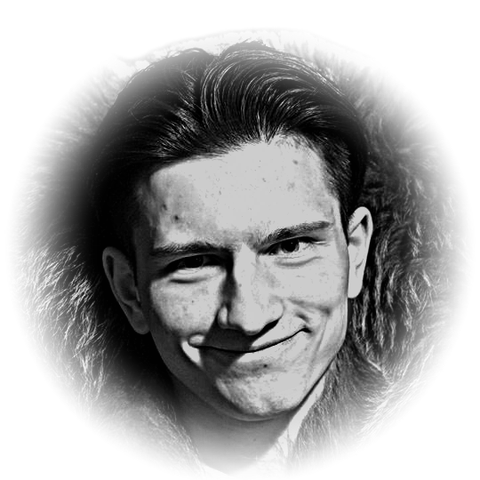
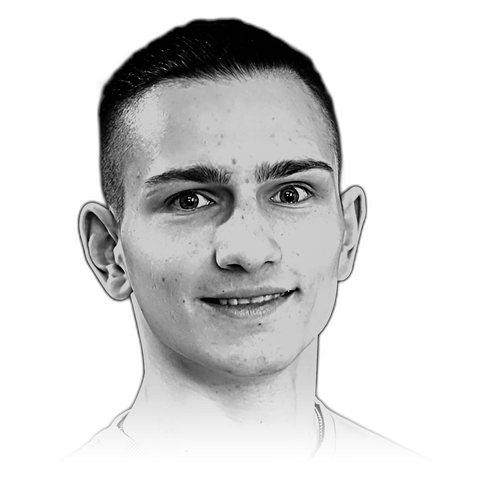
Новый портрет, иконка у срочной службы
Claude-Session: https://claude.ai/code/session_016JFU3MJHehXdZSEaKxqgBT

diff --git a/src/pages/Home.tsx b/src/pages/Home.tsx
@@ -6,6 +6,7 @@ import { sortedProjects } from "../projects";
 import { href } from "../router";
 import { sound } from "../sound";
 import { Logo } from "../ui/Logo";
+import { ShieldStar } from "@phosphor-icons/react";
 import { Dither } from "../ui/Dither";
 import { ProjectRow } from "../ui/ProjectRow";
 import { SectionLabel } from "../ui/Section";
@@ -141,7 +142,7 @@ export function Home() {
             <li key={e.years} className="flex items-start justify-between gap-4 border-b border-line py-3.5">
               <div className="flex gap-3">
                 <span className="mt-0.5 grid h-8 w-8 shrink-0 place-items-center rounded-[7px] border border-line bg-surface text-ink">
-                  {e.logo ? <Logo name={e.logo} className={e.logo === "pix" ? "h-3.5 w-5" : "h-5 w-3"} /> : <span className="h-1.5 w-1.5 rounded-full bg-ink-3" />}
+                  {e.logo ? <Logo name={e.logo} className={e.logo === "pix" ? "h-3.5 w-5" : "h-5 w-3"} /> : <ShieldStar size={16} weight="duotone" className="text-ink-2" />}
                 </span>
                 <div>
                   {e.site ? (

diff --git a/src/ui/Dither.tsx b/src/ui/Dither.tsx
@@ -88,6 +88,8 @@ export function Dither({ svg, src, fit = 1, gamma = 1, photo, cols, rows, classN
           let v = lum[idx];
           // в темной теме светлое лицо становится плотными светлыми точками, а темным местам оставляем немного точек, чтобы силуэт не пропадал
           if (photo && dark) v = Math.min(1 - v, 0.85);
+          // Аткинсон теряет часть ошибки и светлая кожа почти пропадает, в светлой теме чуть притемняем
+          else if (photo) v *= 0.86;
           // полупрозрачные края фото дают меньше точек: портрет плавно растворяется
           if (photo) v = 1 - (1 - v) * alpha![idx];
           if (mouse) {
